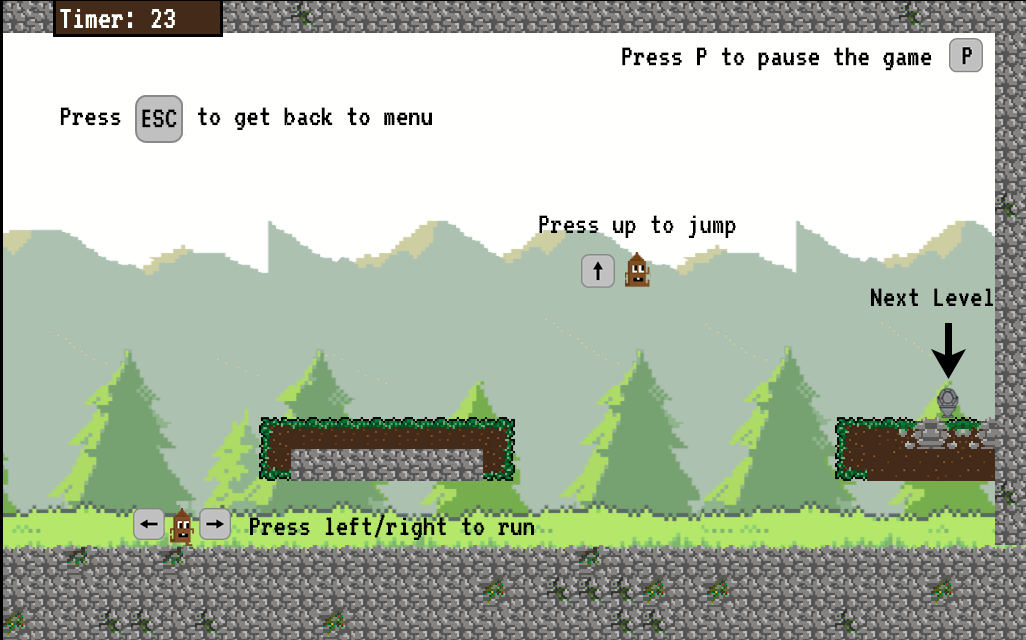
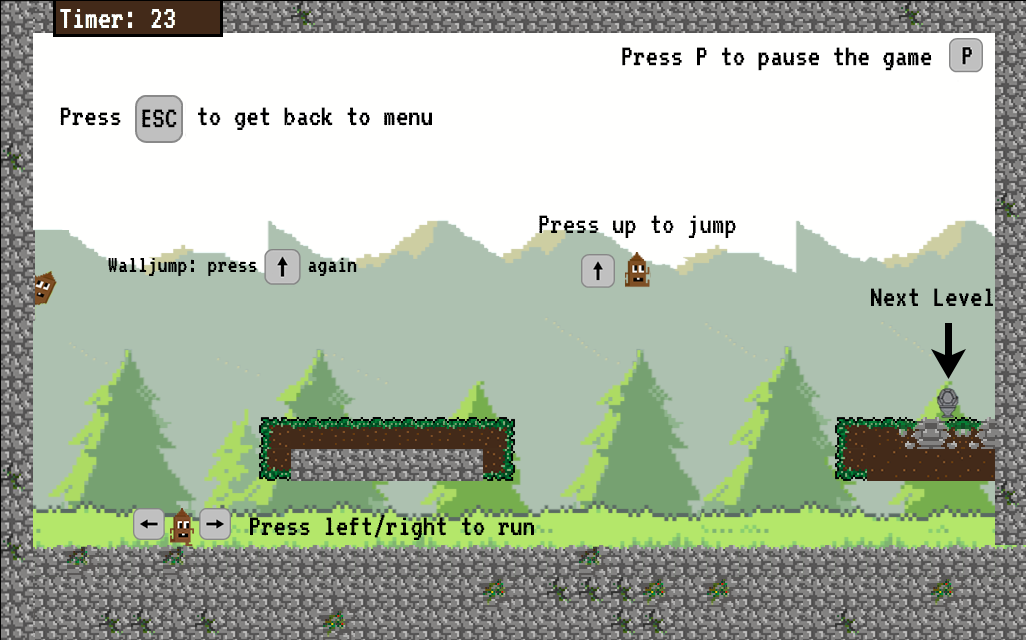
Levelwechsel ohne Pfeiltasten/HowTo mit Walllump

Changed region(s): [[0.0, 0.0, 0.0624, 1.0], [0.0936, 0.375, 0.3431, 0.4375]]

diff --git a/index.html b/index.html
@@ -58,6 +58,12 @@
                 document.onkeydown = function(event){
                     if(event.keyCode == 77){
                         location.reload();
+                    }else if(event.keyCode == 38){
+
+                    }else if(event.keyCode == 37){
+
+                    }else if(event.keyCode == 39){
+
                     }else{
                         document.getElementById('levelwechsel').style.visibility="hidden";
                     }
